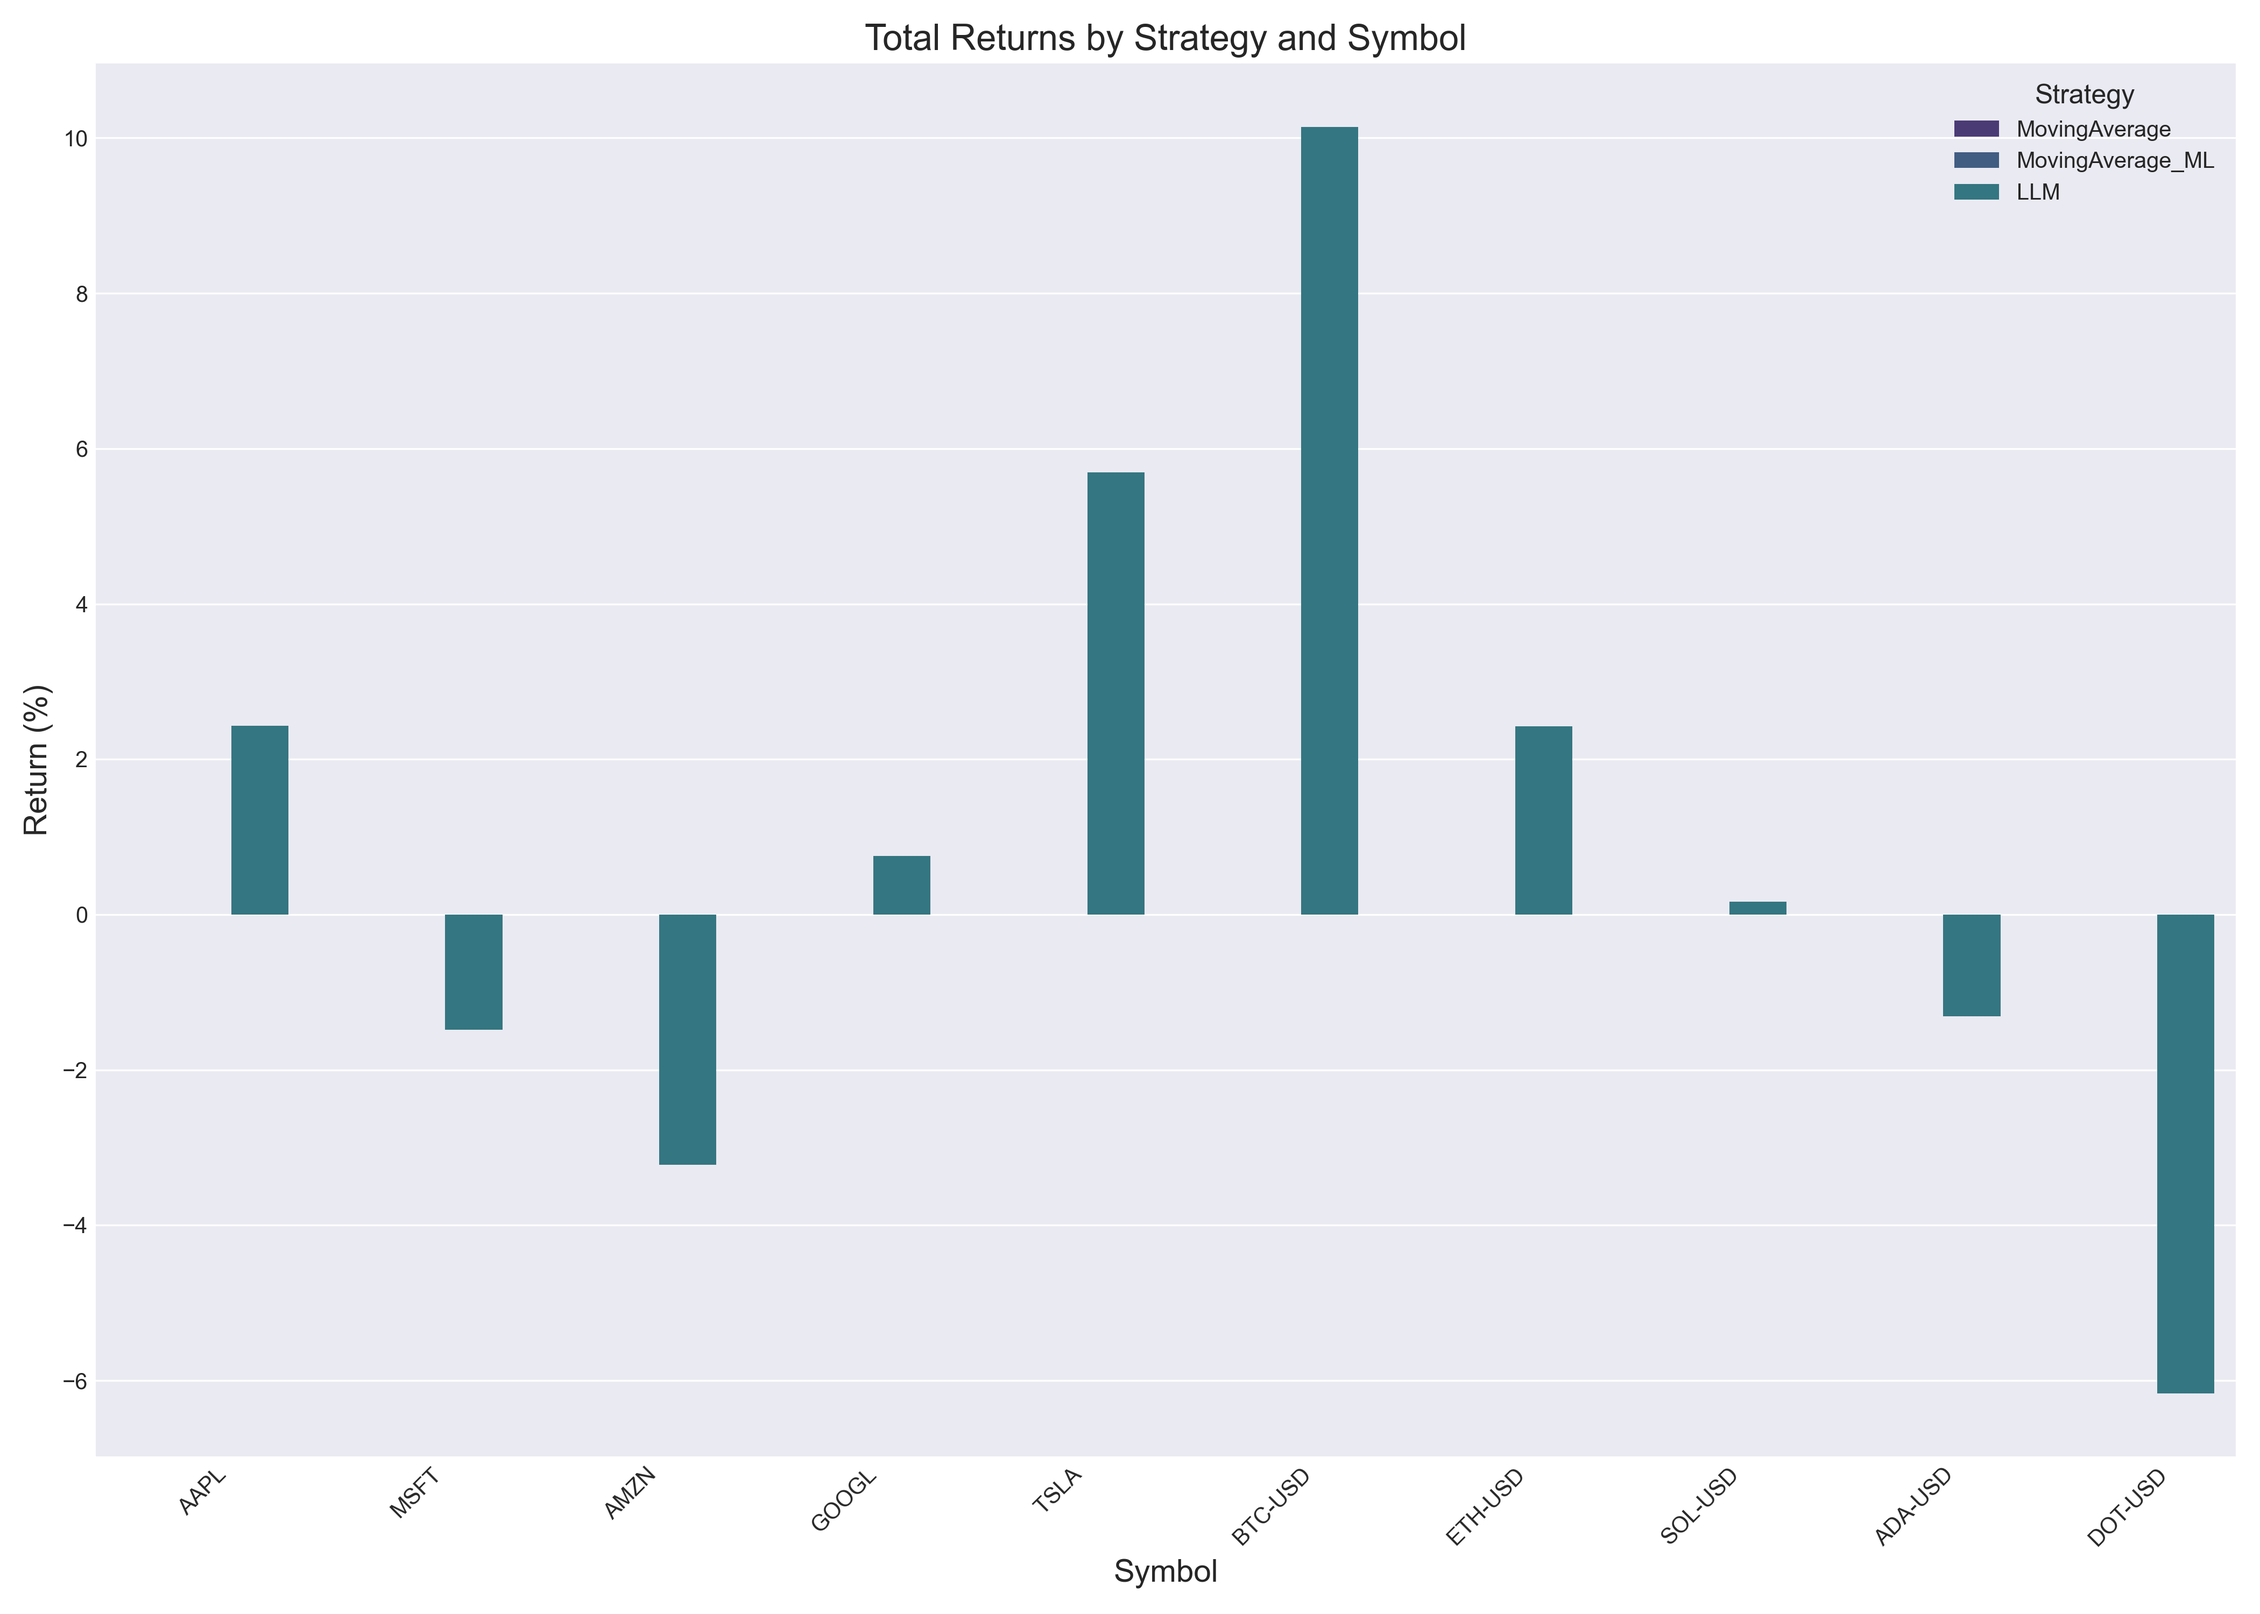
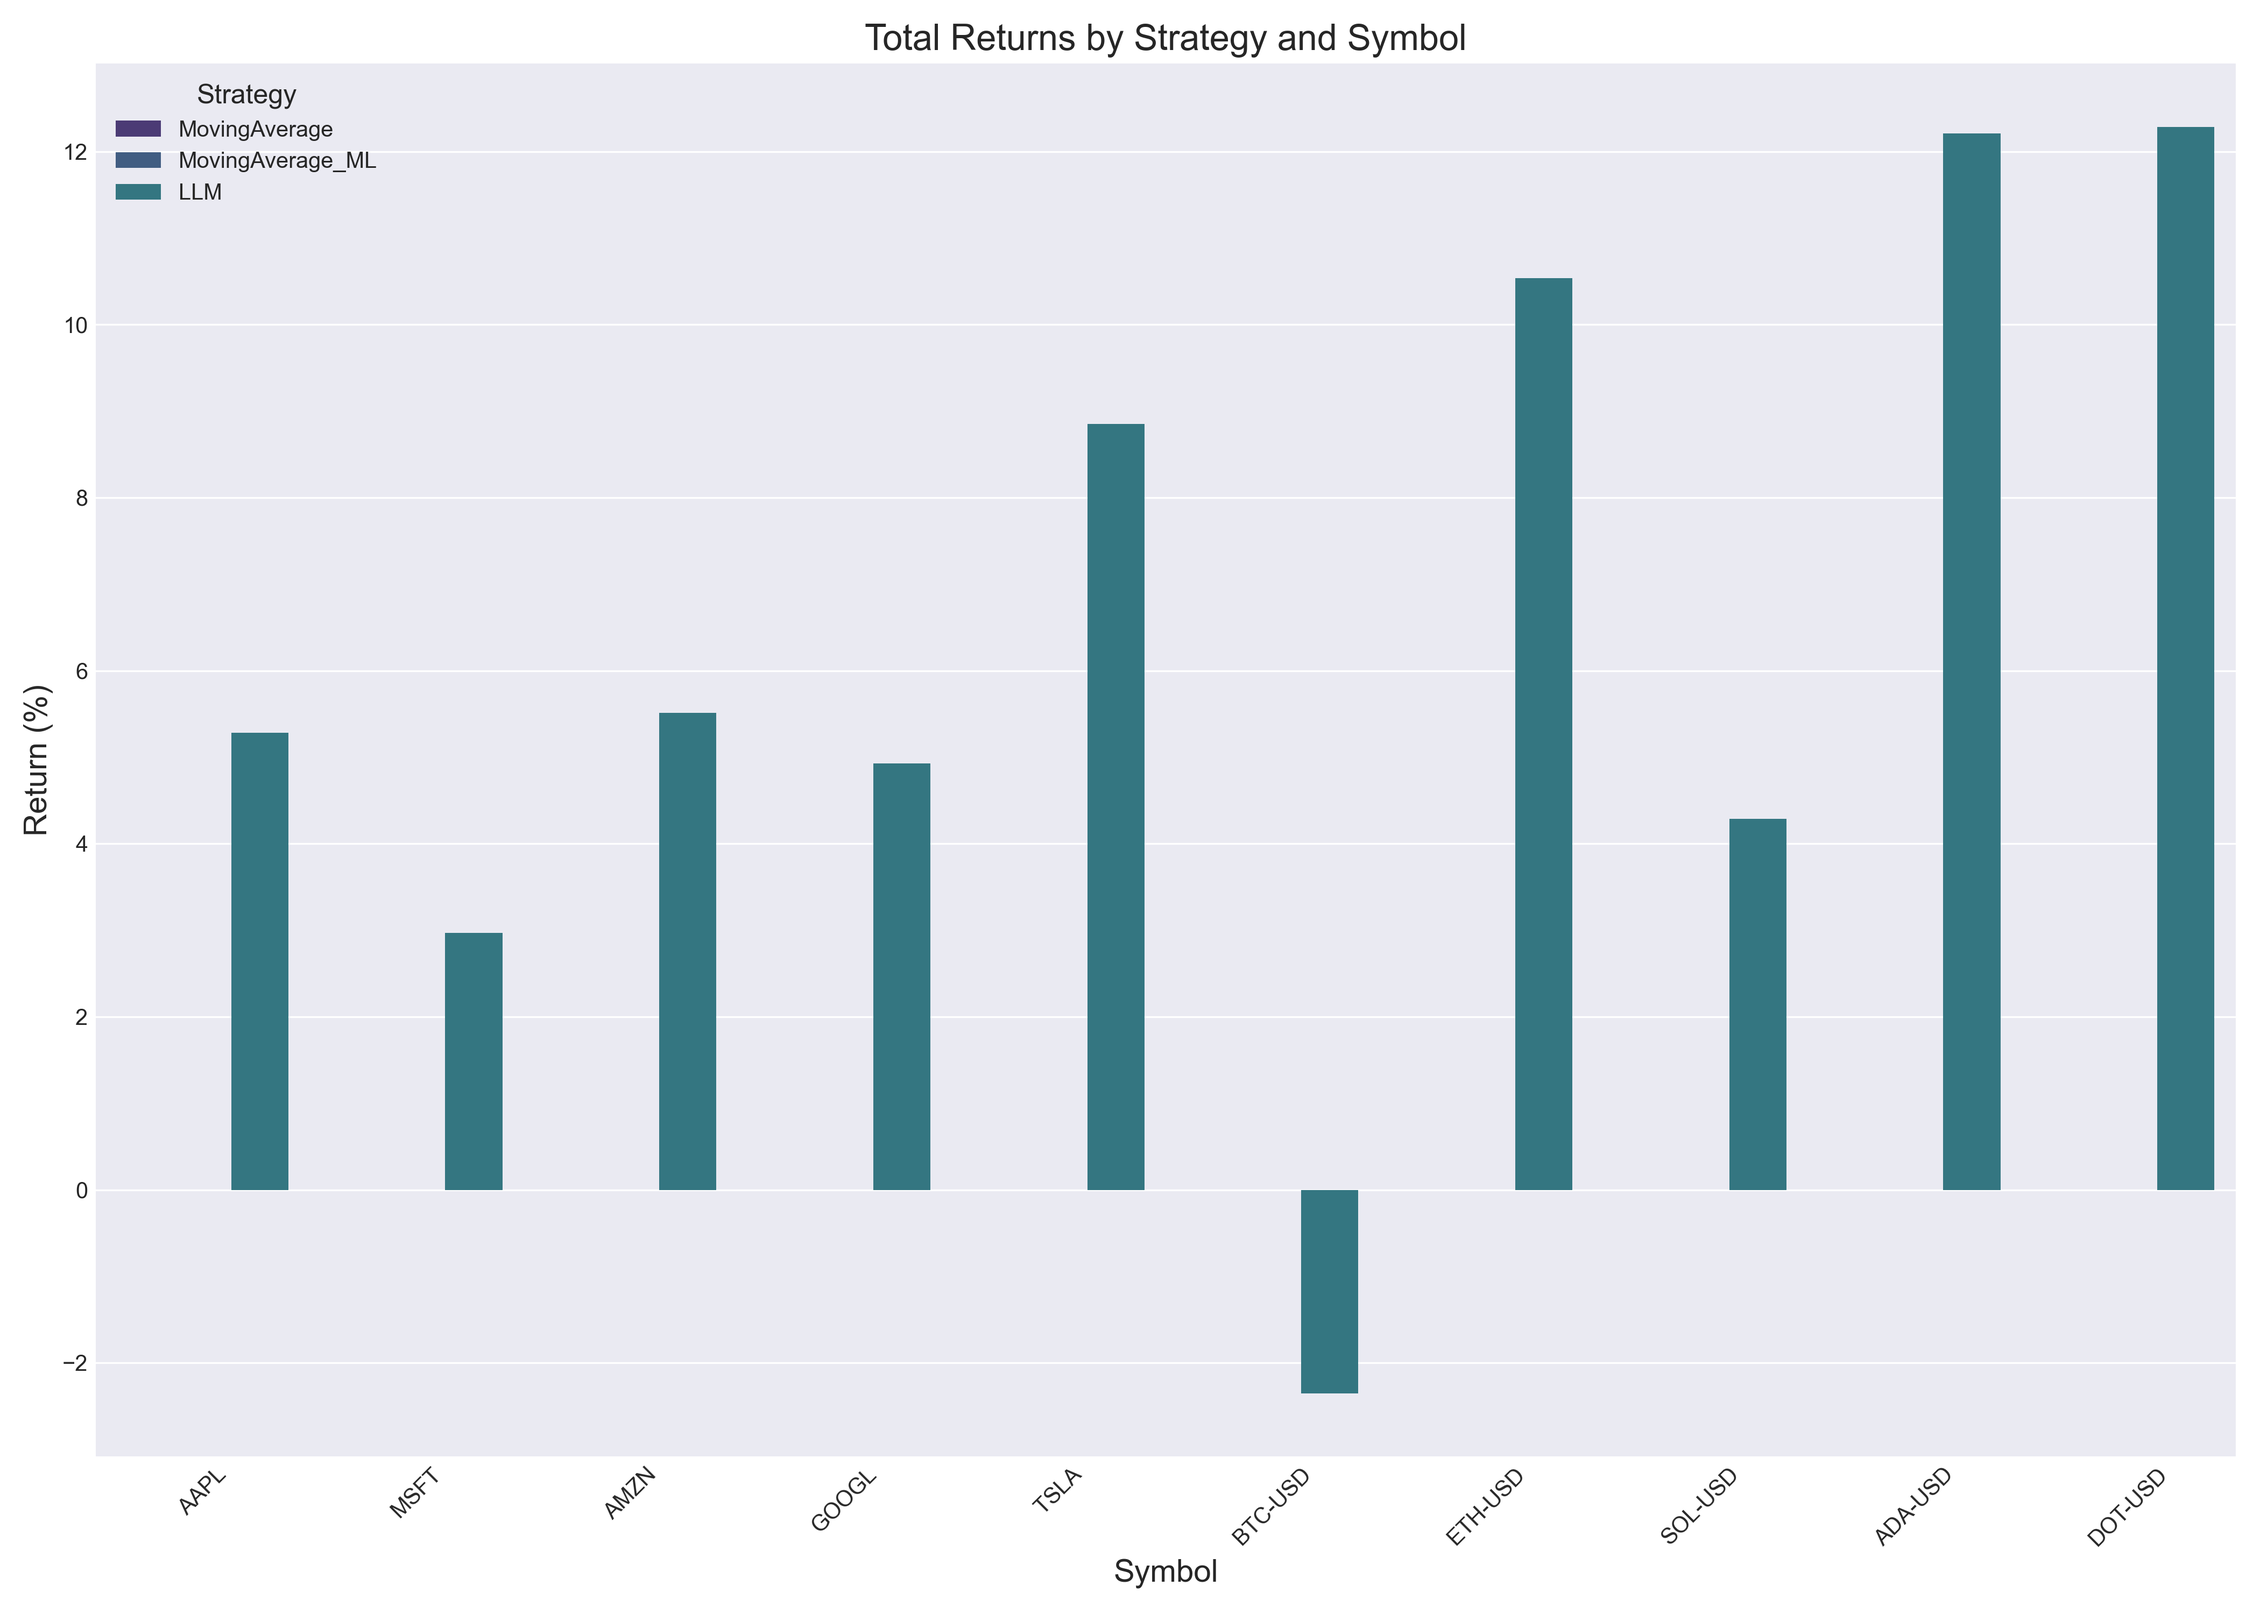
Test

diff --git a/reports/strategy_comparison.html b/reports/strategy_comparison.html
@@ -94,11 +94,11 @@
       <td>LLM</td>
       <td>$2000.00</td>
       <td>$0.00</td>
-      <td>2.43%</td>
+      <td>5.28%</td>
       <td>0.00%</td>
       <td>0.00</td>
       <td>0.00%</td>
-      <td>[{'timestamp': 20, 'action': 'BUY', 'price': 170.12633990422512, 'quantity': 11.168170672863651, 'capital': 100.0}]</td>
+      <td>[{'timestamp': 20, 'action': 'BUY', 'price': 211.76260750773903, 'quantity': 8.972311128774532, 'capital': 99.99999999999977}]</td>
     </tr>
     <tr>
       <td>MSFT</td>
@@ -127,11 +127,11 @@
       <td>LLM</td>
       <td>$2000.00</td>
       <td>$0.00</td>
-      <td>-1.48%</td>
+      <td>2.97%</td>
       <td>0.00%</td>
       <td>0.00</td>
       <td>0.00%</td>
-      <td>[{'timestamp': 20, 'action': 'BUY', 'price': 384.73000618570234, 'quantity': 4.93852823915924, 'capital': 100.0}]</td>
+      <td>[{'timestamp': 20, 'action': 'BUY', 'price': 484.71956893206897, 'quantity': 3.919792229940433, 'capital': 100.0}]</td>
     </tr>
     <tr>
       <td>AMZN</td>
@@ -160,11 +160,11 @@
       <td>LLM</td>
       <td>$2000.00</td>
       <td>$0.00</td>
-      <td>-3.22%</td>
+      <td>5.51%</td>
       <td>0.00%</td>
       <td>0.00</td>
       <td>0.00%</td>
-      <td>[{'timestamp': 20, 'action': 'BUY', 'price': 185.06161377027055, 'quantity': 10.266850922193935, 'capital': 100.0}]</td>
+      <td>[{'timestamp': 20, 'action': 'BUY', 'price': 177.3597092734835, 'quantity': 10.712692345871268, 'capital': 100.0}]</td>
     </tr>
     <tr>
       <td>GOOGL</td>
@@ -193,11 +193,11 @@
       <td>LLM</td>
       <td>$2000.00</td>
       <td>$0.00</td>
-      <td>0.76%</td>
+      <td>4.93%</td>
       <td>0.00%</td>
       <td>0.00</td>
       <td>0.00%</td>
-      <td>[{'timestamp': 20, 'action': 'BUY', 'price': 201.88831475646376, 'quantity': 9.411143989645733, 'capital': 100.0}]</td>
+      <td>[{'timestamp': 20, 'action': 'BUY', 'price': 206.08351934564837, 'quantity': 9.21956304916005, 'capital': 100.0}]</td>
     </tr>
     <tr>
       <td>TSLA</td>
@@ -226,11 +226,11 @@
       <td>LLM</td>
       <td>$2000.00</td>
       <td>$0.00</td>
-      <td>5.69%</td>
+      <td>8.85%</td>
       <td>0.00%</td>
       <td>0.00</td>
       <td>0.00%</td>
-      <td>[{'timestamp': 20, 'action': 'BUY', 'price': 171.75247086086893, 'quantity': 11.06243182690005, 'capital': 100.0}]</td>
+      <td>[{'timestamp': 20, 'action': 'BUY', 'price': 177.19280661823112, 'quantity': 10.72278291800877, 'capital': 100.0}]</td>
     </tr>
     <tr>
       <td>BTC-USD</td>
@@ -259,11 +259,11 @@
       <td>LLM</td>
       <td>$2000.00</td>
       <td>$0.00</td>
-      <td>10.14%</td>
+      <td>-2.35%</td>
       <td>0.00%</td>
       <td>0.00</td>
       <td>0.00%</td>
-      <td>[{'timestamp': 20, 'action': 'BUY', 'price': 158.29299063276056, 'quantity': 12.003058331294001, 'capital': 100.0}]</td>
+      <td>[{'timestamp': 20, 'action': 'BUY', 'price': 145.28360500103398, 'quantity': 13.077869316269222, 'capital': 100.0}]</td>
     </tr>
     <tr>
       <td>ETH-USD</td>
@@ -292,11 +292,11 @@
       <td>LLM</td>
       <td>$2000.00</td>
       <td>$0.00</td>
-      <td>2.42%</td>
+      <td>10.54%</td>
       <td>0.00%</td>
       <td>0.00</td>
       <td>0.00%</td>
-      <td>[{'timestamp': 20, 'action': 'BUY', 'price': 56.15649065828538, 'quantity': 33.834023061761116, 'capital': 99.99999999999977}]</td>
+      <td>[{'timestamp': 20, 'action': 'BUY', 'price': 69.19380515089117, 'quantity': 27.4591055638097, 'capital': 100.0}]</td>
     </tr>
     <tr>
       <td>SOL-USD</td>
@@ -325,11 +325,11 @@
       <td>LLM</td>
       <td>$2000.00</td>
       <td>$0.00</td>
-      <td>0.17%</td>
+      <td>4.29%</td>
       <td>0.00%</td>
       <td>0.00</td>
       <td>0.00%</td>
-      <td>[{'timestamp': 20, 'action': 'BUY', 'price': 75.23628748428295, 'quantity': 25.253771332043925, 'capital': 100.0}]</td>
+      <td>[{'timestamp': 20, 'action': 'BUY', 'price': 79.81383103962396, 'quantity': 23.805397827060023, 'capital': 99.99999999999977}]</td>
     </tr>
     <tr>
       <td>ADA-USD</td>
@@ -358,11 +358,11 @@
       <td>LLM</td>
       <td>$2000.00</td>
       <td>$0.00</td>
-      <td>-1.31%</td>
+      <td>12.21%</td>
       <td>0.00%</td>
       <td>0.00</td>
       <td>0.00%</td>
-      <td>[{'timestamp': 20, 'action': 'BUY', 'price': 122.5294772768978, 'quantity': 15.506472746197161, 'capital': 100.0}]</td>
+      <td>[{'timestamp': 20, 'action': 'BUY', 'price': 136.58821437741474, 'quantity': 13.910424180156575, 'capital': 100.0}]</td>
     </tr>
     <tr>
       <td>DOT-USD</td>
@@ -391,11 +391,11 @@
       <td>LLM</td>
       <td>$2000.00</td>
       <td>$0.00</td>
-      <td>-6.16%</td>
+      <td>12.28%</td>
       <td>0.00%</td>
       <td>0.00</td>
       <td>0.00%</td>
-      <td>[{'timestamp': 20, 'action': 'BUY', 'price': 67.8714123303334, 'quantity': 27.994113202663435, 'capital': 100.0}]</td>
+      <td>[{'timestamp': 20, 'action': 'BUY', 'price': 62.29623296112917, 'quantity': 30.499436477732743, 'capital': 100.0}]</td>
     </tr>
   </tbody>
 </table>
@@ -420,7 +420,7 @@
             </div>
             
             <footer style="text-align: center; margin-top: 50px; color: #7f8c8d;">
-                Generated by Mercurio AI Strategy Simulator on 2025-04-27 00:08:58
+                Generated by Mercurio AI Strategy Simulator on 2025-05-03 15:53:14
             </footer>
         </body>
         </html>
